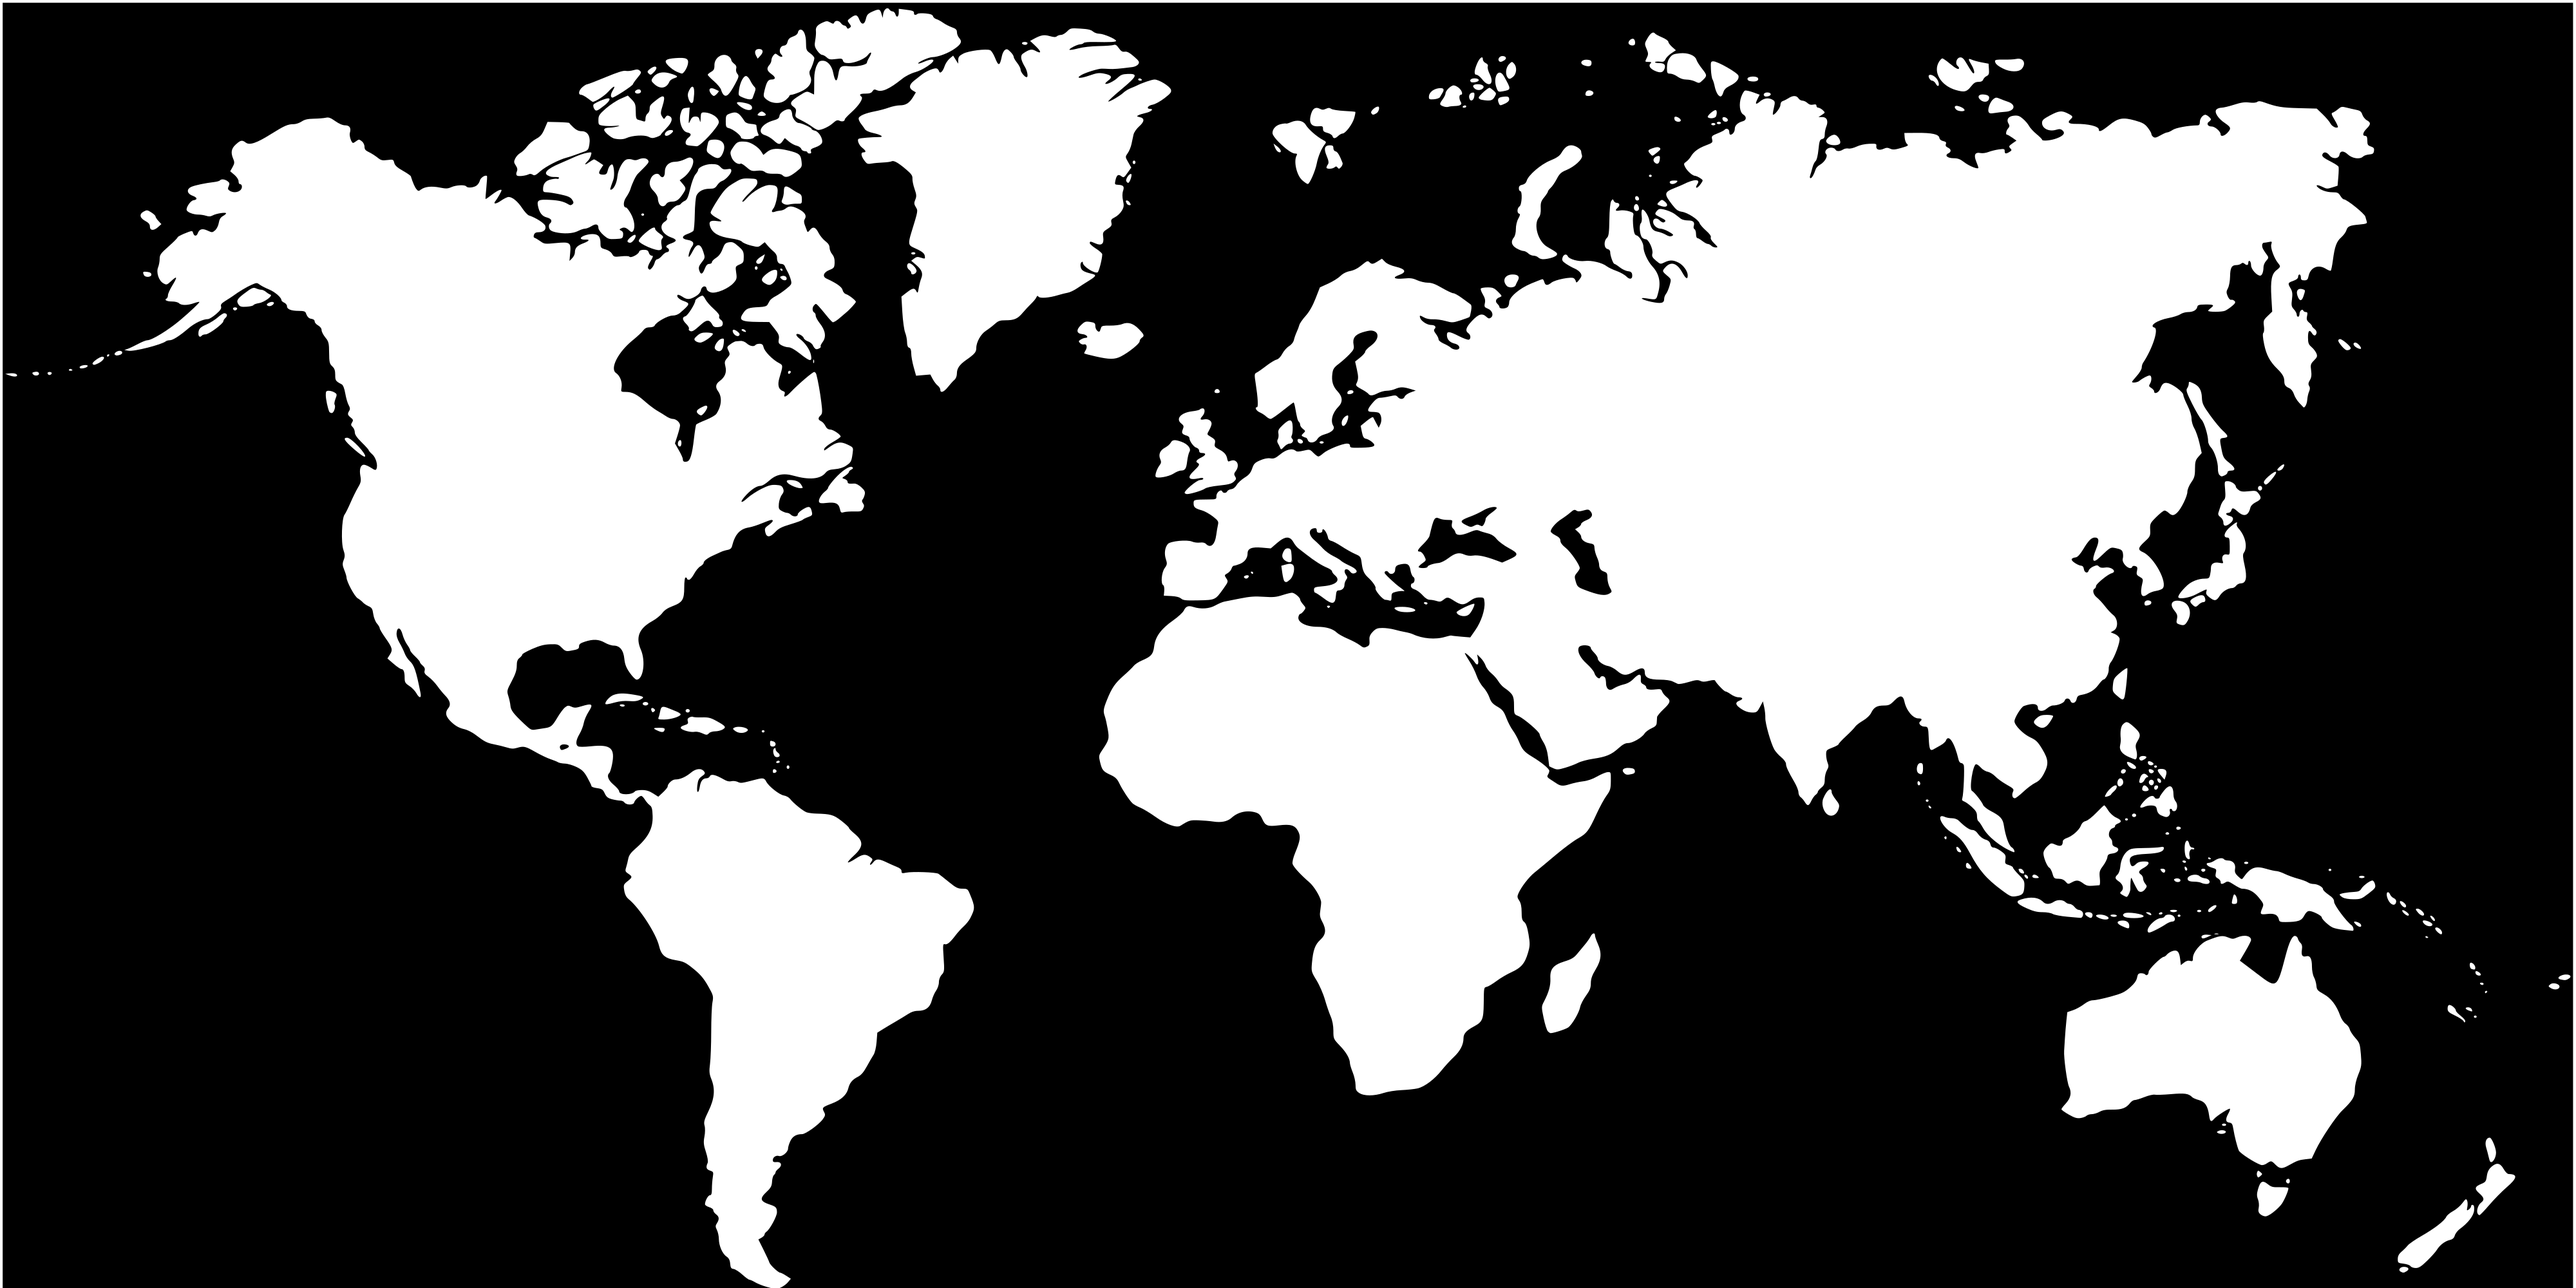
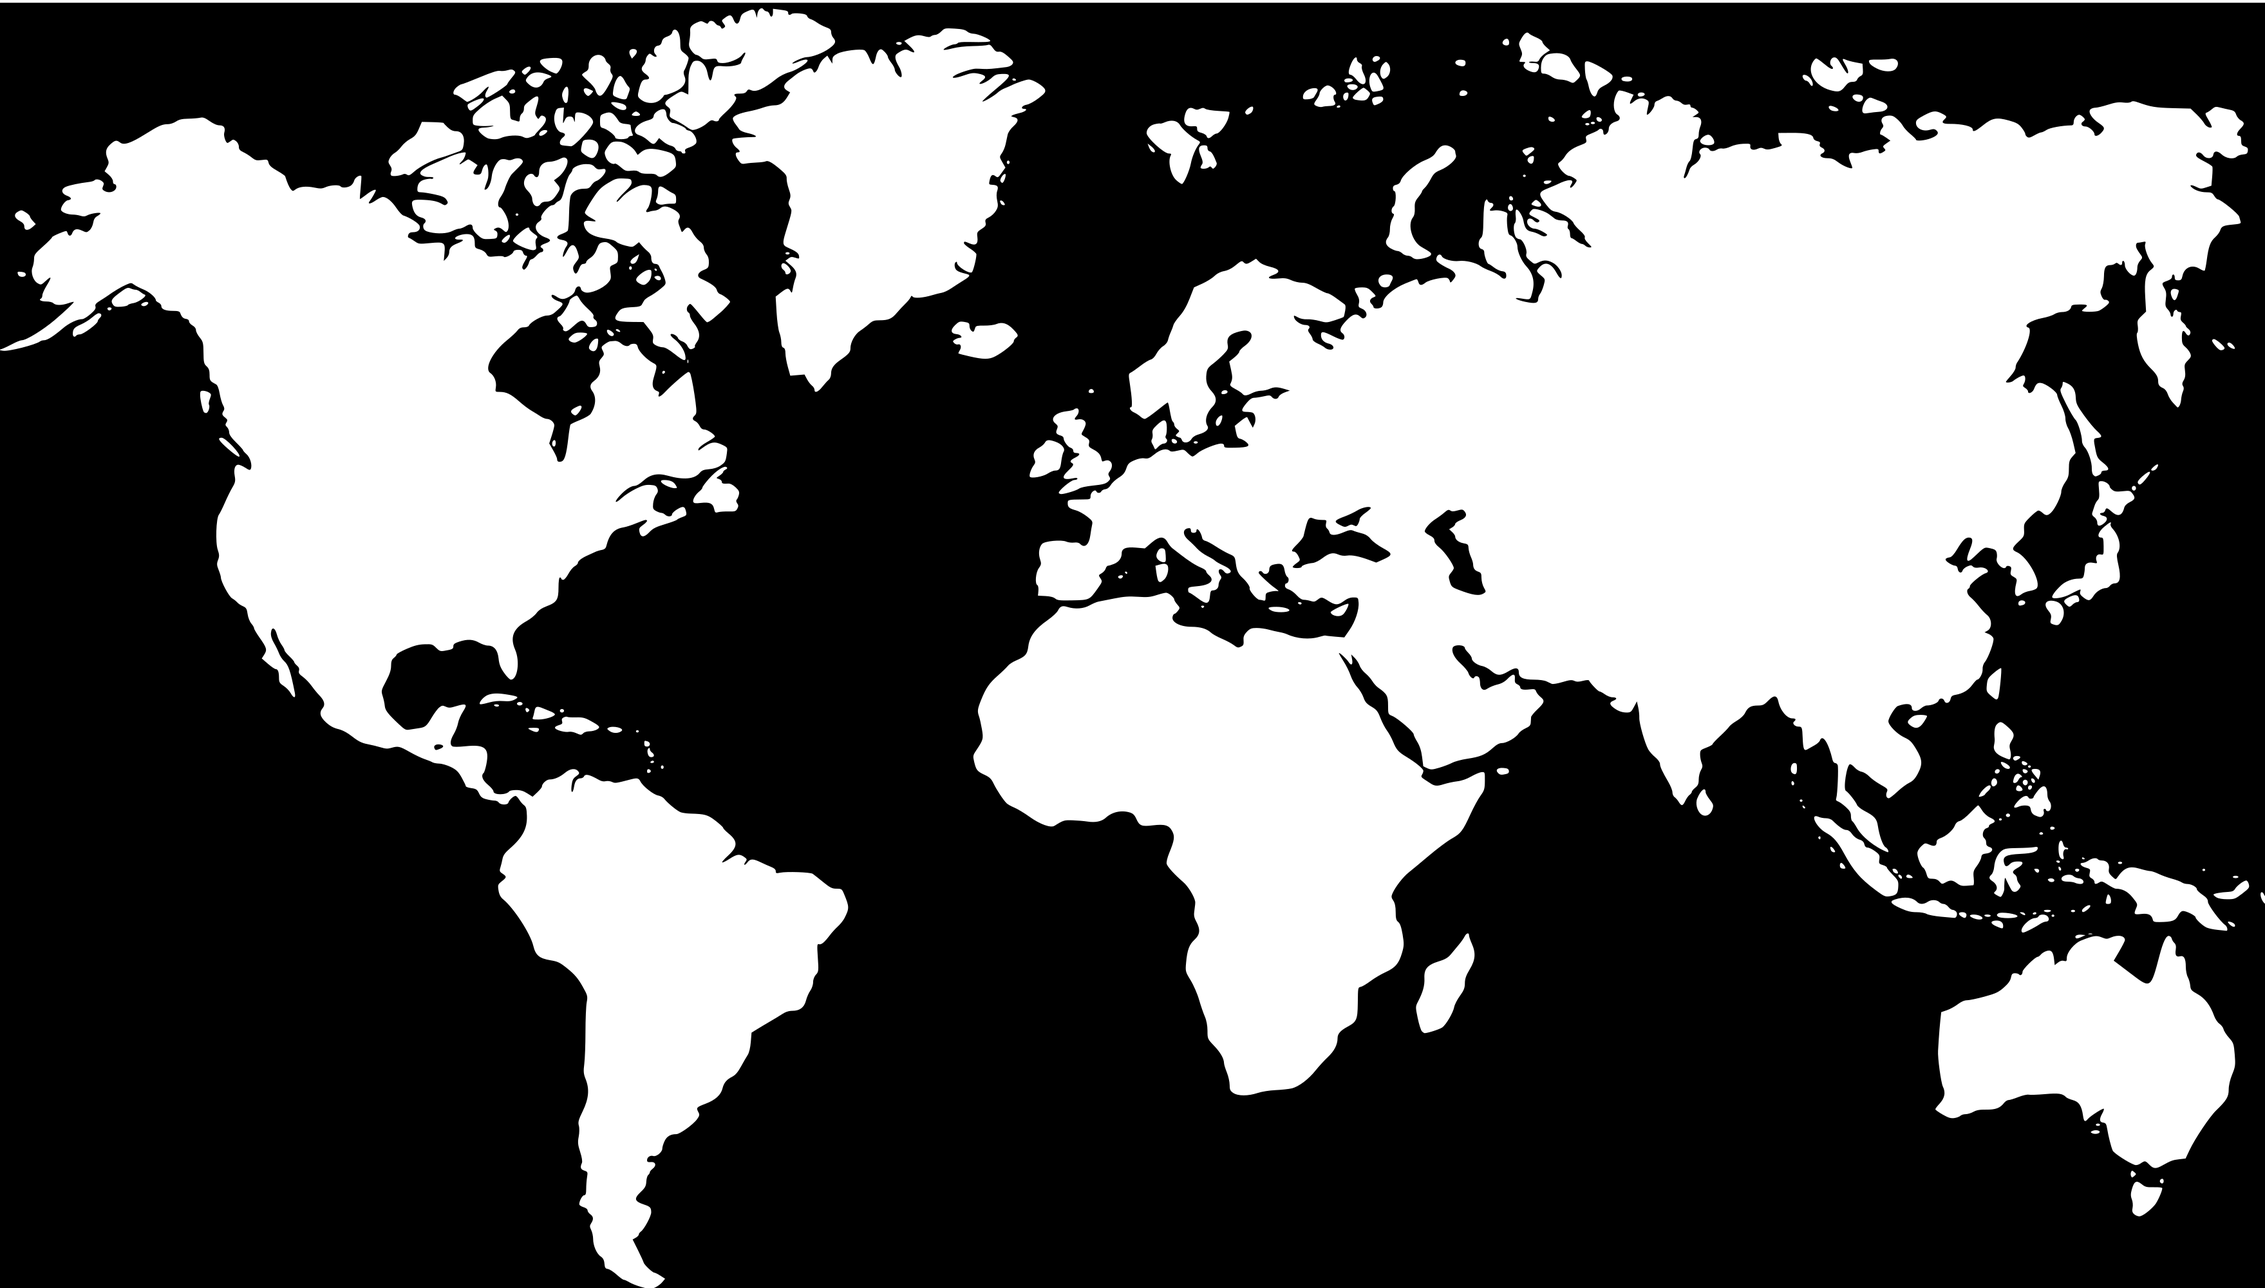
upload project baru ke apsnew

diff --git a/components/layout/Navbar.module.css b/components/layout/Navbar.module.css
@@ -39,10 +39,10 @@
   align-items: center;
   justify-content: space-between;
   gap: 0.75rem;
-  max-width: 1280px;
+  max-width: 100%;
   min-height: 72px;
   margin: 0 auto;
-  padding: 1rem 0.75rem;
+  padding: 1rem 4rem;
   box-sizing: border-box;
   transition: min-height 0.28s ease, max-width 0.28s ease, padding 0.28s ease;
 }
@@ -116,13 +116,13 @@
 
 .dropdownShell {
   position: fixed;
-  top: 142px;
+  top: 110px;
   left: 50%;
   z-index: 1;
   width: min(900px, calc(100vw - 32px));
   box-sizing: border-box;
   transform: translateX(-50%);
-  overflow: hidden;
+  overflow: visible;
   border: 1px solid var(--card-border, rgba(255, 255, 255, 0.12));
   border-radius: 16px;
   background: #000;
@@ -137,9 +137,21 @@
   pointer-events: none;
 }
 
+.dropdownShell::before {
+  content: "";
+  position: absolute;
+  top: -25px; 
+  left: 0;
+  width: 100%;
+  height: 20px; 
+  background: transparent;
+  z-index: 999;
+}
+
 .dropdownShellOpen {
   opacity: 1;
   visibility: visible;
+  pointer-events: auto;
   transition:
     height 0.42s cubic-bezier(0.2, 1, 0.2, 1),
     opacity 0.18s ease,
@@ -225,7 +237,7 @@
   transform: translateX(-50%);
   display: flex;
   align-items: center;
-  gap: 16px;
+  gap: 30px;
   z-index: 2;
   background: transparent;
   padding: 8px 20px;
@@ -284,14 +296,14 @@
 
 .dropdownBox {
   position: fixed;
-  top: 142px;
+  top: 85px;
   left: 50%;
   transform: translateX(-50%);
   width: min(900px, calc(100vw - 32px));
   min-height: 240px;
   max-height: calc(100dvh - 88px);
   overflow-y: auto;
-  padding: 24px 26px;
+  padding: 20px 26px;
   border-radius: 16px;
   background: transparent;
   border: 1px solid transparent;
@@ -356,8 +368,8 @@
 .dropdownAssetRow { 
   display: flex; 
   align-items: center; 
-  gap: 16px; 
-  padding: 8px 14px; 
+  gap: 10px; 
+  padding: 4px 10px; 
   border-radius: 12px; 
   transition: background-color 0.2s ease; 
   cursor: pointer; 
@@ -579,6 +591,7 @@ a.dropdownAssetRow:focus-visible {
   .hamburger {
     display: flex;
   }
+  
   .headerInner {
     padding: 0.8rem 1rem;
   }

diff --git a/app/idry/page.tsx b/app/idry/page.tsx
@@ -1,6 +1,6 @@
 import Image from "next/image";
 import type { Metadata } from "next";
-import Header from "@/components/sections/Header";
+import Navbar from "@/components/layout/Navbar"; // <-- Diperbaiki ke Navbar
 import IdryYieldChart from "@/components/sections/IdryYieldChart";
 
 export const metadata: Metadata = {
@@ -17,7 +17,9 @@ const metrics = [
 export default function IdryPage() {
   return (
     <div className="idry-page">
-      <Header lightBackground />
+      {/* Menggunakan Navbar dengan prop lightBackground */}
+      <Navbar lightBackground />
+
       <main>
         <section className="idry-hero" aria-labelledby="idry-title">
           <div className="idry-hero-inner">
@@ -75,27 +77,6 @@ export default function IdryPage() {
           <div className="idry-section-inner idry-yield-layout">
             <div className="idry-section-copy">
               <h2 id="idry-yield-title">
-                Safe, Daily Yield.
-                <br />
-                Now 3.75% APY<sup>1</sup>
-              </h2>
-              <p>
-                IDRY brings tokenized Indonesian sovereign bonds onchain,
-                combining access to sovereign-backed assets with the utility of
-                decentralized finance.
-              </p>
-              <a href="https://app.zyqxa.id" className="idry-action-primary">
-                Buy IDRY
-              </a>
-            </div>
-            <IdryYieldChart />
-          </div>
-        </section>
-
-        <section className="idry-yield-section" aria-labelledby="idry-yield-secondary-title">
-          <div className="idry-section-inner idry-yield-layout">
-            <div className="idry-section-copy">
-              <h2 id="idry-yield-secondary-title">
                 Safe, Daily Yield.
                 <br />
                 Now 3.75% APY<sup>1</sup>

diff --git a/app/globals.css b/app/globals.css
@@ -1065,3 +1065,9 @@ section {
     animation: none;
   }
 }
+
+.idry-page {
+  background-color: #030712; /* Warna latar gelap khas halaman utama ZYQXA */
+  min-height: 100vh;
+}
+
